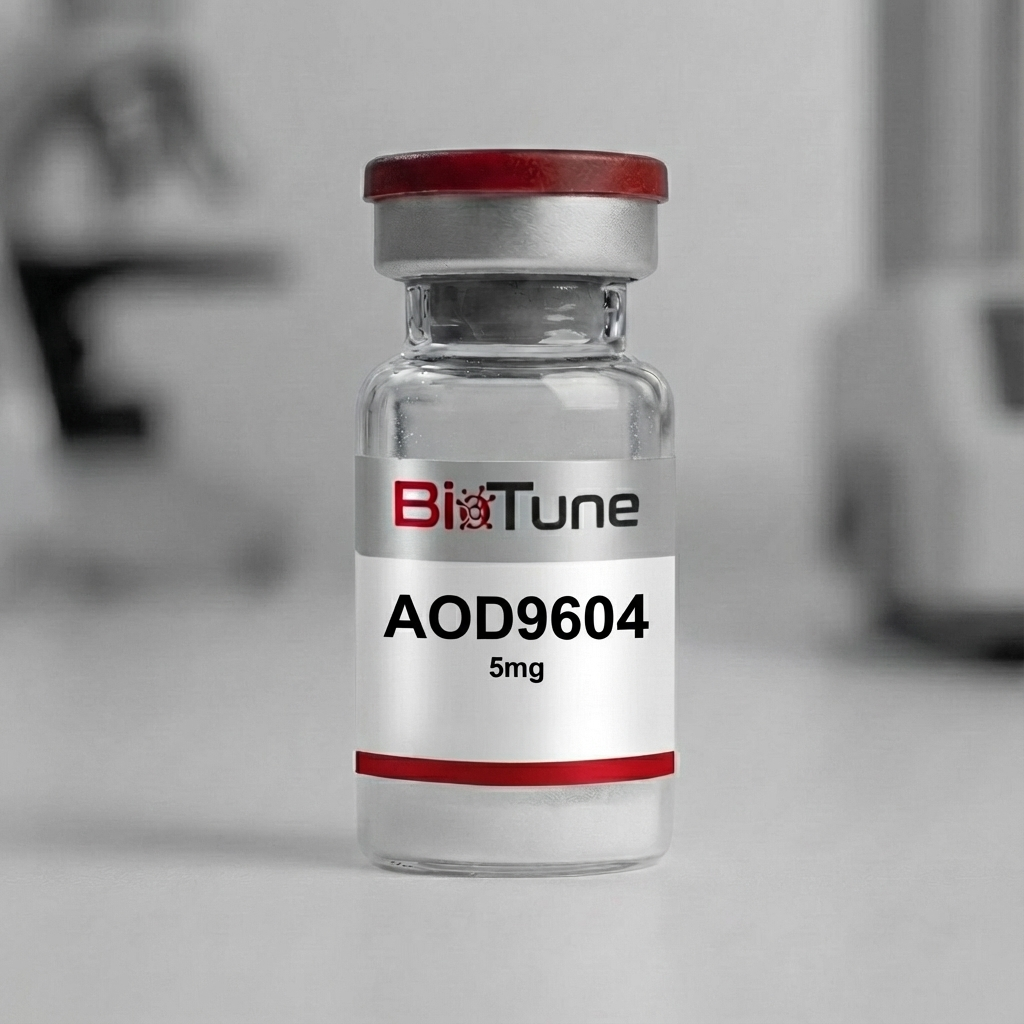
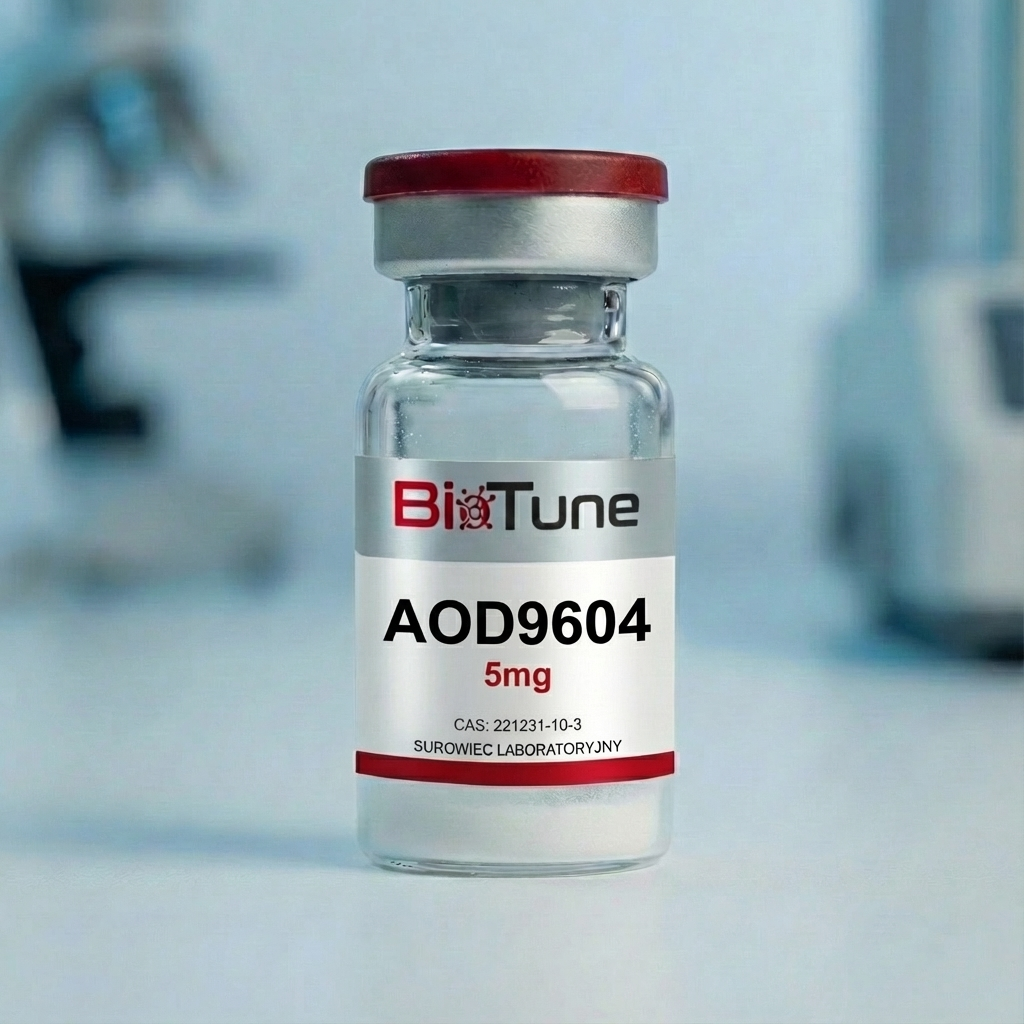
Fixed border animation (fade-in), regenerated product images with correct blue background

diff --git a/css/custom.css b/css/custom.css
@@ -501,24 +501,18 @@ body::before {
     z-index: 10;
 }
 
-/* SVG border - HIDDEN by default using opacity */
+/* SVG border - HIDDEN by default, fades in on hover */
 .animated-border-rect {
     fill: none;
     stroke: #ff0000;
-    stroke-width: 0.8px;
-    stroke-dasharray: 100;
-    /* Matches pathLength="100" on rect */
-    stroke-dashoffset: 100;
-    stroke-opacity: 0;
-    /* HIDDEN by default */
-    transition: none;
+    stroke-width: 1px;
+    opacity: 0;
+    transition: opacity 0.3s ease-out;
 }
 
-/* On hover, show and animate drawing */
+/* On hover, show border with fade-in */
 .product-card-wrapper:hover .animated-border-rect {
-    stroke-opacity: 1;
-    stroke-dashoffset: 0;
-    transition: stroke-dashoffset 0.5s ease-out, stroke-opacity 0s;
+    opacity: 1;
 }
 
 /* Product image overlay on hover */

diff --git a/js/products-data.js b/js/products-data.js
@@ -153,7 +153,7 @@ const products = [
         cas: null,
         molarMass: null,
         formula: null,
-        images: ['./assets/products/bac-water.jpg']
+        images: ['./assets/products/bac-water.png']
     }
 ];
 
